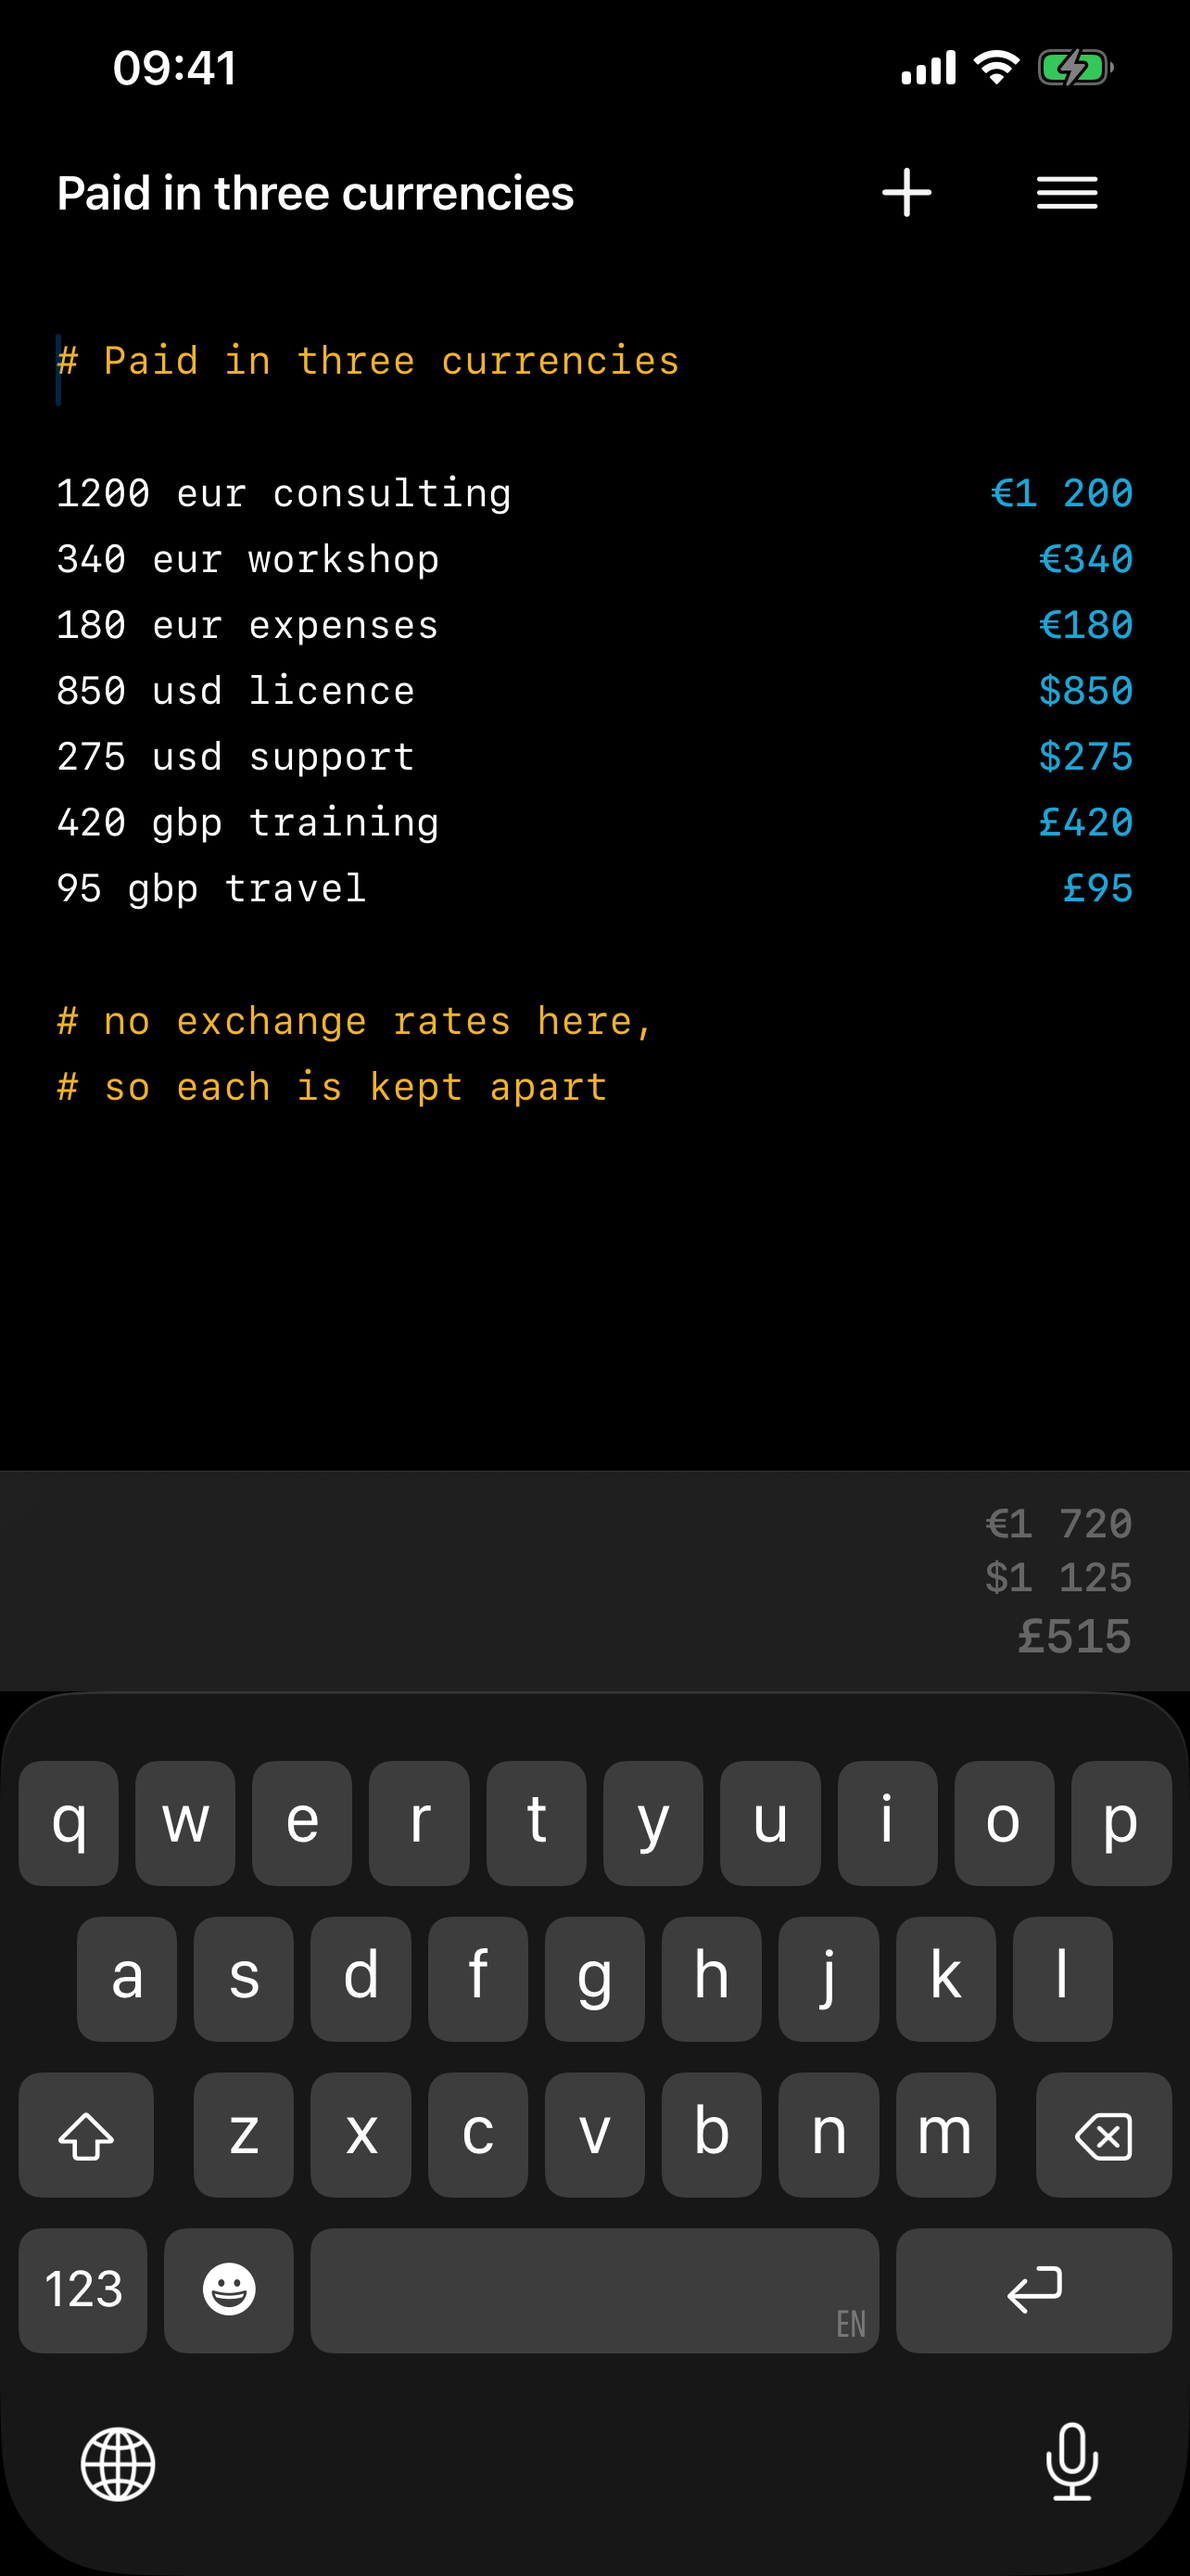
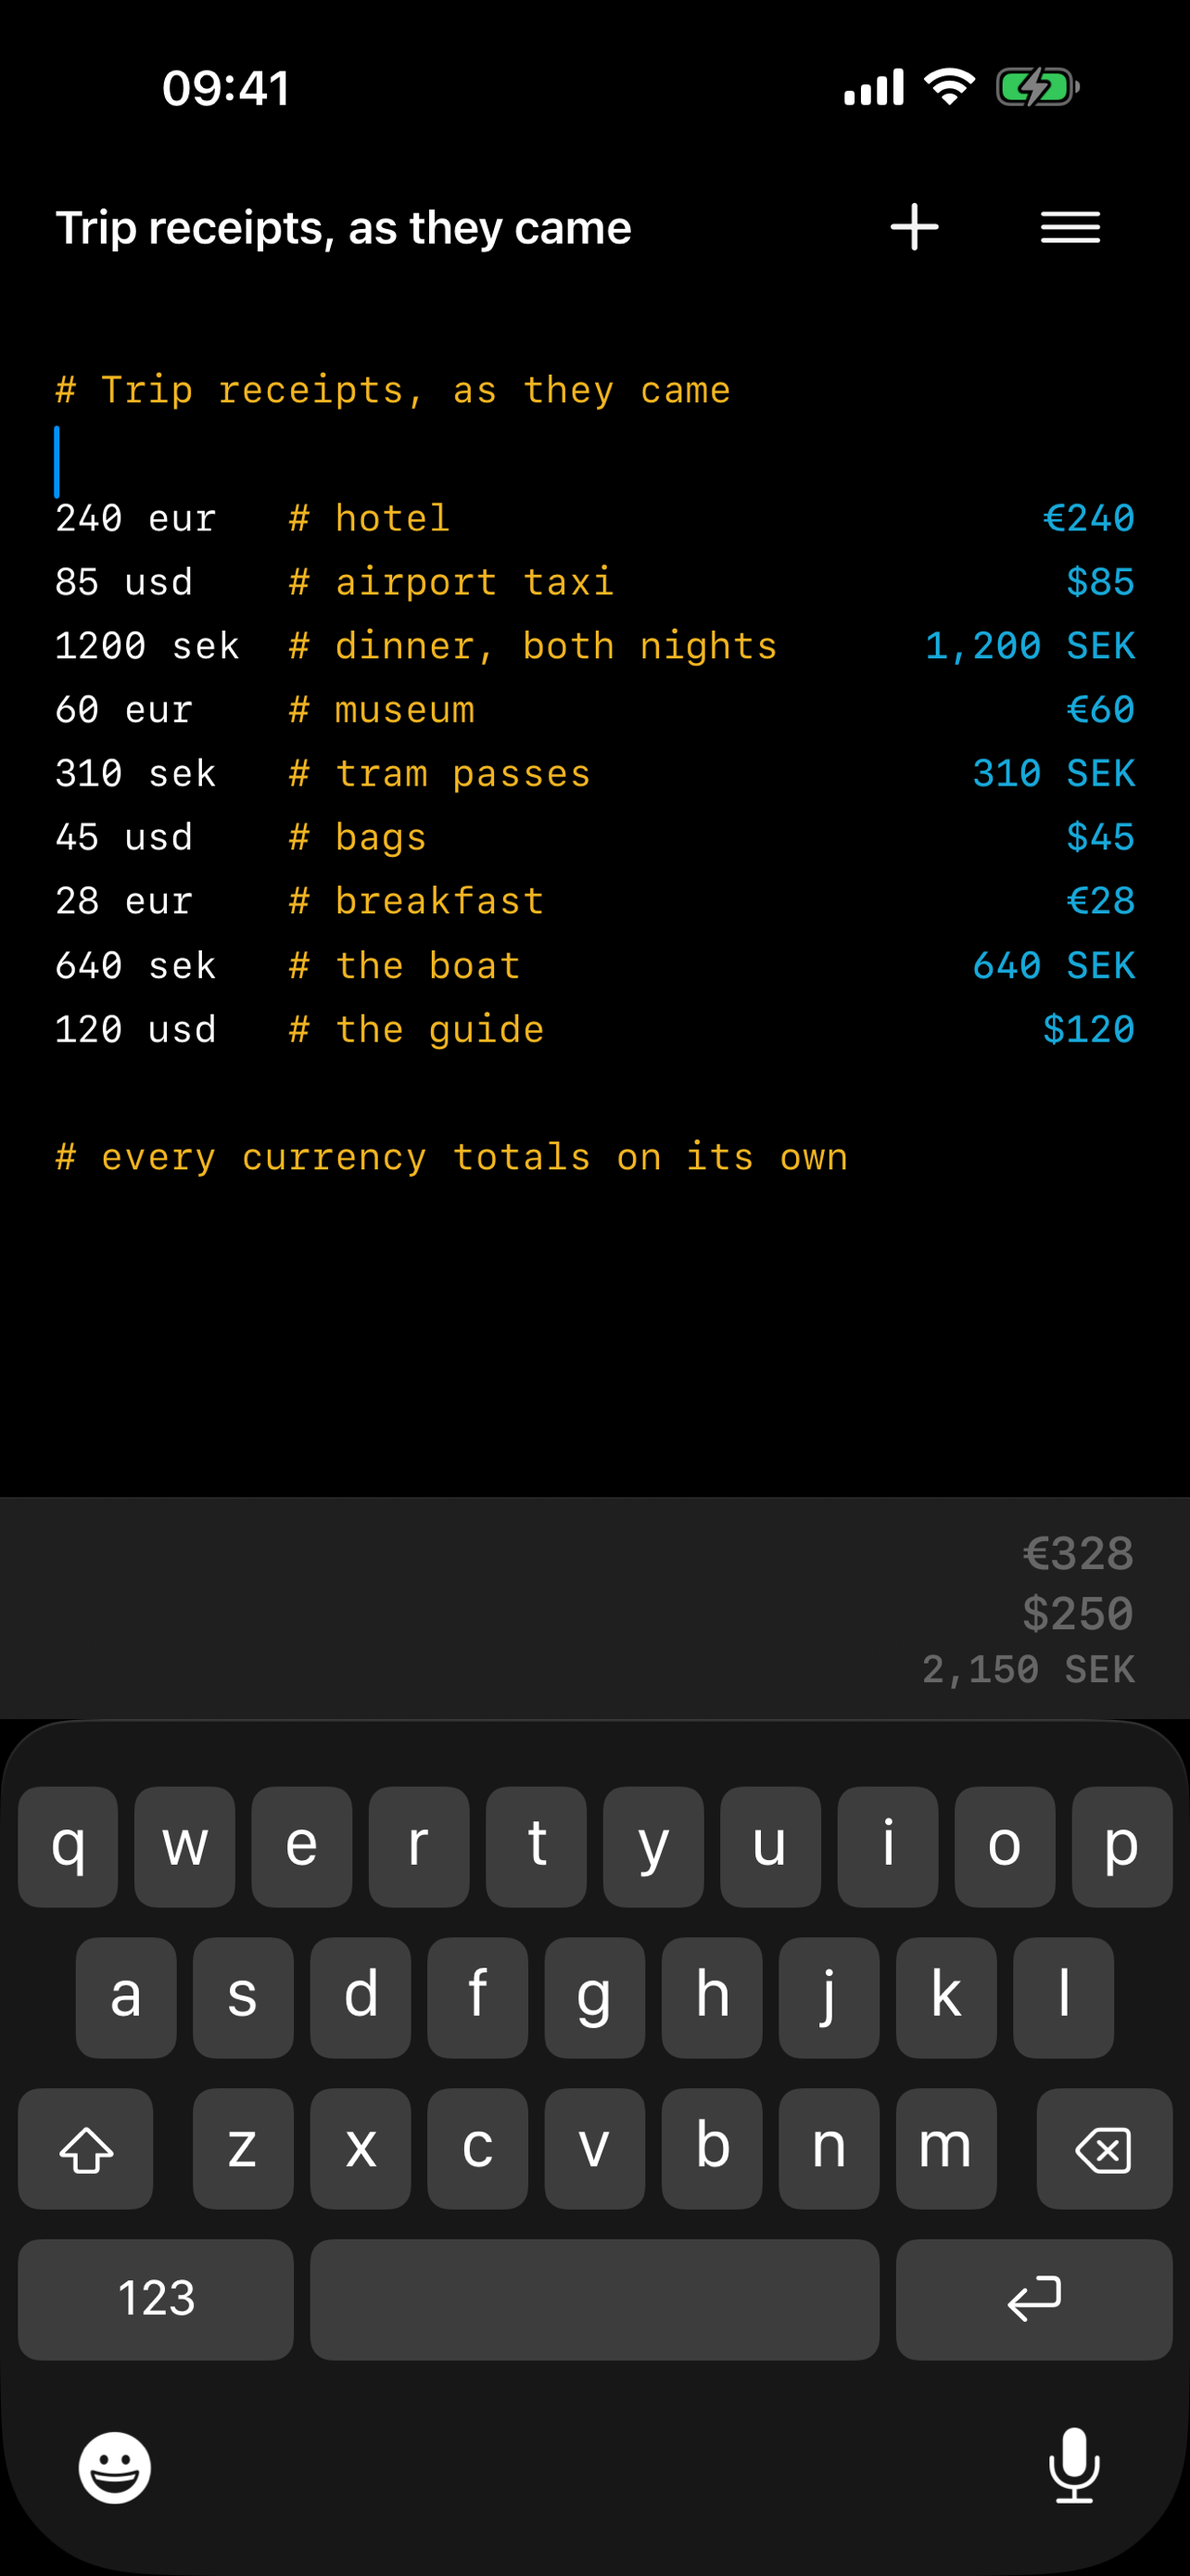
Draw the sheet close up, and land the caret where you would carry on
Two changes: one to how the app is shown, one to how it opens a sheet.

The store shots put the panel inside a laptop, which is right for saying
what the app is and wrong for saying what it does. Framed and scaled
down, the lines stop being readable at the size anyone actually meets
them. So there is a second kind of shot now: the panel on its own
against the gradient, the headline beside it, and nothing around it
competing for the room. `macshots --scale` draws the panel large enough
for that, and make-mac-mockups takes those larger panels as a fourth
argument and crops the close-up out of them. They are intermediate art
in the way the panels already were, so they are ignored rather than
committed.

The sheets were redrawn while that was going on: quick maths became
areas, hourly rate became a freelance week, and there is a new one
showing everything the app does on a single sheet.

The caret is the other change. Opening a different sheet, or having the
one on screen change underneath on disk, left the caret wherever it had
been before — a position that meant something in the text that was
there and nothing in the text that replaced it. Text arriving from
outside now puts it at the end of the last line, which is where you
would carry on from.

diff --git a/Sources/ReckonUI/SheetTextView.swift b/Sources/ReckonUI/SheetTextView.swift
@@ -167,7 +167,7 @@ struct SheetTextView: NSViewRepresentable {
 		let view = SheetEditorView()
 		view.columnWidth = columnWidth
 		view.textView.delegate = context.coordinator
-		view.textView.textStorage?.setAttributedString(LineStyle.attributed(text))
+		view.show(text)
 		return view
 	}
 
@@ -181,12 +181,7 @@ struct SheetTextView: NSViewRepresentable {
 		context.coordinator.parent = self
 		view.columnWidth = columnWidth
 
-		if view.textView.string != text {
-			let selected = view.textView.selectedRange()
-			view.textView.textStorage?.setAttributedString(LineStyle.attributed(text))
-			view.textView.setSelectedRange(
-				NSRange(location: min(selected.location, (text as NSString).length), length: 0))
-		}
+		if view.textView.string != text { view.show(text) }
 
 		if view.results.results != results {
 			view.results.results = results
@@ -224,6 +219,8 @@ final class SheetEditorView: NSView {
 
 	var columnWidth: CGFloat = 132 { didSet { needsLayout = true } }
 	private let gap: CGFloat = 12
+	/// A caret to bring into sight once this view has a window to do it in.
+	private var caretIsWaiting = false
 
 	override init(frame: NSRect) {
 		super.init(frame: frame)
@@ -270,6 +267,16 @@ final class SheetEditorView: NSView {
 		return max(manager.usedRect(for: container).height, LineStyle.lineHeight)
 	}
 
+	/// Puts a sheet on screen: a different one opened, or this one changed on
+	/// disk. Either way the text arrived from outside rather than being typed
+	/// here, so the caret goes where you would carry on from — the end of the
+	/// last line — instead of wherever it happened to be in the sheet before.
+	func show(_ text: String) {
+		textView.textStorage?.setAttributedString(LineStyle.attributed(text))
+		textView.setSelectedRange(NSRange(location: (text as NSString).length, length: 0))
+		revealCaret()
+	}
+
 	/// Brings the caret back into sight.
 	///
 	/// The text view does not scroll: it is laid out at its full height and
@@ -279,15 +286,23 @@ final class SheetEditorView: NSView {
 	/// end of the scrolled content, behind the total bar. This asks again once
 	/// the sheet has been measured and laid out at its new height.
 	func revealCaret() {
-		DispatchQueue.main.async { [weak self] in
-			guard let self, let window else { return }
+		DispatchQueue.main.async { [weak self] in self?.showCaret() }
+	}
 
-			window.layoutIfNeeded()
-			guard let caret = caretRect() else { return }
-
-			// A line of air, so the caret is never flush against the bar.
-			scrollToVisible(caret.insetBy(dx: 0, dy: -LineStyle.lineHeight))
+	private func showCaret() {
+		// A sheet opened before its window is on screen — the panel's, every
+		// time it is put together — has nothing to scroll yet, so the ask is
+		// kept until there is.
+		guard let window else {
+			caretIsWaiting = true
+			return
 		}
+
+		window.layoutIfNeeded()
+		guard let caret = caretRect() else { return }
+
+		// A line of air, so the caret is never flush against the bar.
+		scrollToVisible(caret.insetBy(dx: 0, dy: -LineStyle.lineHeight))
 	}
 
 	/// Where the caret is, in this view's coordinates.
@@ -323,6 +338,11 @@ final class SheetEditorView: NSView {
 
 		results.frame = NSRect(x: width + gap, y: 0, width: columnWidth, height: bounds.height)
 		results.needsDisplay = true
+
+		if caretIsWaiting, window != nil {
+			caretIsWaiting = false
+			revealCaret()      // after this layout, not during it
+		}
 	}
 }
 
@@ -372,7 +392,7 @@ struct SheetTextView: UIViewRepresentable {
 		let view = SheetEditorView()
 		view.columnWidth = columnWidth
 		view.textView.delegate = context.coordinator
-		view.textView.attributedText = LineStyle.attributed(text)
+		view.show(text)
 		return view
 	}
 
@@ -386,12 +406,7 @@ struct SheetTextView: UIViewRepresentable {
 		context.coordinator.parent = self
 		view.columnWidth = columnWidth
 
-		if view.textView.text != text {
-			let selected = view.textView.selectedRange
-			view.textView.attributedText = LineStyle.attributed(text)
-			view.textView.selectedRange = NSRange(
-				location: min(selected.location, (text as NSString).length), length: 0)
-		}
+		if view.textView.text != text { view.show(text) }
 
 		if view.results.results != results {
 			view.results.results = results
@@ -429,6 +444,8 @@ final class SheetEditorView: UIView {
 
 	var columnWidth: CGFloat = 132 { didSet { setNeedsLayout() } }
 	private let gap: CGFloat = 12
+	/// A caret to bring into sight once this view is on screen.
+	private var caretIsWaiting = false
 
 	override init(frame: CGRect) {
 		super.init(frame: frame)
@@ -462,6 +479,16 @@ final class SheetEditorView: UIView {
 		return max(fitting.height, LineStyle.lineHeight)
 	}
 
+	/// Puts a sheet on screen: a different one opened, or this one changed on
+	/// disk. Either way the text arrived from outside rather than being typed
+	/// here, so the caret goes where you would carry on from — the end of the
+	/// last line — instead of wherever it happened to be in the sheet before.
+	func show(_ text: String) {
+		textView.attributedText = LineStyle.attributed(text)
+		textView.selectedRange = NSRange(location: (text as NSString).length, length: 0)
+		revealCaret()
+	}
+
 	/// Brings the caret back into sight.
 	///
 	/// The text view does not scroll: it is laid out at its full height and
@@ -471,20 +498,27 @@ final class SheetEditorView: UIView {
 	/// the scrolled content, behind the total bar. This asks again once the
 	/// sheet has been measured and laid out at its new height.
 	func revealCaret() {
-		DispatchQueue.main.async { [weak self] in
-			guard let self, let window else { return }
+		DispatchQueue.main.async { [weak self] in self?.showCaret() }
+	}
 
-			window.layoutIfNeeded()
-
-			var view: UIView? = superview
-			while let next = view, !(next is UIScrollView) { view = next.superview }
-			guard let scroll = view as? UIScrollView, let caret = caretRect() else { return }
-
-			// A line of air, so the caret is never flush against the bar.
-			scroll.scrollRectToVisible(
-				scroll.convert(caret, from: self).insetBy(dx: 0, dy: -LineStyle.lineHeight),
-				animated: false)
+	private func showCaret() {
+		// A sheet opened before its view is on screen has nothing to scroll
+		// yet, so the ask is kept until there is.
+		guard let window else {
+			caretIsWaiting = true
+			return
 		}
+
+		window.layoutIfNeeded()
+
+		var view: UIView? = superview
+		while let next = view, !(next is UIScrollView) { view = next.superview }
+		guard let scroll = view as? UIScrollView, let caret = caretRect() else { return }
+
+		// A line of air, so the caret is never flush against the bar.
+		scroll.scrollRectToVisible(
+			scroll.convert(caret, from: self).insetBy(dx: 0, dy: -LineStyle.lineHeight),
+			animated: false)
 	}
 
 	/// Where the caret is, in this view's coordinates.
@@ -516,6 +550,11 @@ final class SheetEditorView: UIView {
 		textView.frame = CGRect(x: 0, y: 0, width: width, height: bounds.height)
 		results.frame = CGRect(x: width + gap, y: 0, width: columnWidth, height: bounds.height)
 		results.setNeedsDisplay()
+
+		if caretIsWaiting, window != nil {
+			caretIsWaiting = false
+			revealCaret()      // after this layout, not during it
+		}
 	}
 }
 

diff --git a/Scripts/make-mac-mockups.swift b/Scripts/make-mac-mockups.swift
@@ -18,15 +18,17 @@ import ImageIO
 import UniformTypeIdentifiers
 
 let arguments = Array(CommandLine.arguments.dropFirst())
-guard arguments.count == 3 else {
+guard arguments.count == 3 || arguments.count == 4 else {
 	FileHandle.standardError.write(Data(
-		"usage: make-mac-mockups.swift <panels> <screenshots out> <mockups out>\n".utf8))
+		"usage: make-mac-mockups.swift <panels> <screenshots out> <mockups out> [closeups]\n".utf8))
 	exit(2)
 }
 
 let panels = URL(fileURLWithPath: arguments[0])
 let flatOut = URL(fileURLWithPath: arguments[1])
 let framedOut = URL(fileURLWithPath: arguments[2])
+/// Panels drawn larger, to be shown on their own rather than in a laptop.
+let closeupsIn = arguments.count == 4 ? URL(fileURLWithPath: arguments[3]) : nil
 
 for folder in [flatOut, framedOut] {
 	try? FileManager.default.createDirectory(at: folder, withIntermediateDirectories: true)
@@ -117,7 +119,9 @@ let headlines: [String: (String, String)] = [
 	"07-renovation":      ("Write it the way\nyou would say it",
 						   "Commas, slashes and sizes in the description. The number still comes out."),
 	"08-freelance-week":  ("Hours times rate,\nday by day",
-						   "A word in the middle of a sum does not stop it.")
+						   "A word in the middle of a sum does not stop it."),
+	"09-what-it-does":    ("Everything it does,\non one sheet",
+						   "Arithmetic, percentages, functions, names, currencies, and a note anywhere you like.")
 ]
 
 // MARK: - The pieces of a desktop
@@ -300,6 +304,58 @@ func laptop(around screenshot: CGImage, titled headline: (String, String)?) -> C
 	return context.makeImage()
 }
 
+/// The panel on its own, big enough to read every line.
+///
+/// No laptop: a close-up is for showing what the app can do, and a frame
+/// around it only makes the thing being shown smaller.
+func closeup(with panel: CGImage, titled headline: (String, String)?) -> CGImage? {
+	guard let context = newContext(width: canvasWidth, height: canvasHeight) else { return nil }
+	let canvas = CGRect(x: 0, y: 0, width: CGFloat(canvasWidth), height: CGFloat(canvasHeight))
+	let scale = CGFloat(panel.width) / panelPoints
+
+	if let gradient = CGGradient(colorsSpace: CGColorSpaceCreateDeviceRGB(),
+								 colors: [top, bottom] as CFArray, locations: [0, 1]) {
+		context.drawLinearGradient(gradient,
+								   start: CGPoint(x: 0, y: canvas.maxY),
+								   end: CGPoint(x: canvas.maxX, y: 0), options: [])
+	}
+
+	let side = CGFloat(panel.width)
+	let panelRect = CGRect(x: canvas.maxX - side - 150,
+						   y: canvas.midY - side / 2,
+						   width: side, height: side)
+	let corner: CGFloat = 11 * scale
+
+	if let headline {
+		let column = CGRect(x: 150, y: canvas.midY - 260, width: 1000, height: 400)
+		draw(headline.0, in: column, size: 96, weight: .bold,
+			 colour: .white, lineHeight: 1.06, context: context)
+
+		draw(headline.1, in: CGRect(x: column.minX, y: column.minY - 300, width: 980, height: 300),
+			 size: 44, weight: .regular,
+			 colour: NSColor(white: 1, alpha: 0.86), lineHeight: 1.28, context: context)
+	}
+
+	context.saveGState()
+	context.setShadow(offset: CGSize(width: 0, height: -10 * scale),
+					  blur: 44 * scale,
+					  color: CGColor(gray: 0, alpha: 0.45))
+	context.setFillColor(CGColor(gray: 0.02, alpha: 0.62))
+	context.addPath(CGPath(roundedRect: panelRect, cornerWidth: corner,
+						   cornerHeight: corner, transform: nil))
+	context.fillPath()
+	context.restoreGState()
+
+	context.saveGState()
+	context.addPath(CGPath(roundedRect: panelRect, cornerWidth: corner,
+						   cornerHeight: corner, transform: nil))
+	context.clip()
+	context.draw(panel, in: panelRect)
+	context.restoreGState()
+
+	return context.makeImage()
+}
+
 // MARK: - Run
 
 let sheets = ((try? FileManager.default.contentsOfDirectory(
@@ -322,7 +378,14 @@ for panel in sheets {
 	_ = write(flat, to: flatOut.appendingPathComponent(name))
 
 	let key = panel.deletingPathExtension().lastPathComponent
-	if let framed = laptop(around: flat, titled: headlines[key]) {
+
+	// A sheet with a close-up drawn for it gets that instead of the laptop:
+	// it is there to be read, and a frame would only shrink it.
+	if let big = closeupsIn.flatMap({ load($0.appendingPathComponent(name)) }) {
+		if let shown = closeup(with: big, titled: headlines[key]) {
+			_ = write(shown, to: framedOut.appendingPathComponent(name))
+		}
+	} else if let framed = laptop(around: flat, titled: headlines[key]) {
 		_ = write(framed, to: framedOut.appendingPathComponent(name))
 	}
 

diff --git a/Sources/macshots/main.swift b/Sources/macshots/main.swift
@@ -51,8 +51,9 @@ enum Shot {
 
 	/// More than retina. A 460pt panel drawn at 2x is a fifth of a 2880 wide
 	/// store shot and unreadable as a thumbnail, so it is drawn larger and the
-	/// desktop around it is scaled to match.
-	static let scale: CGFloat = 2.75
+	/// desktop around it is scaled to match. `--scale` raises it further for a
+	/// close-up, where the panel is the whole picture.
+	nonisolated(unsafe) static var scale: CGFloat = 2.75
 }
 
 @MainActor
@@ -92,9 +93,16 @@ func render(_ text: String, to url: URL) -> Bool {
 	return true
 }
 
-let arguments = Array(CommandLine.arguments.dropFirst())
+var arguments = Array(CommandLine.arguments.dropFirst())
+
+if let flag = arguments.firstIndex(of: "--scale"), flag + 1 < arguments.count,
+   let value = Double(arguments[flag + 1]) {
+	Shot.scale = CGFloat(value)
+	arguments.removeSubrange(flag...(flag + 1))
+}
+
 guard arguments.count >= 2 else {
-	FileHandle.standardError.write(Data("usage: macshots <out folder> <sheet>…\n".utf8))
+	FileHandle.standardError.write(Data("usage: macshots [--scale n] <out folder> <sheet>…\n".utf8))
 	exit(2)
 }
 
